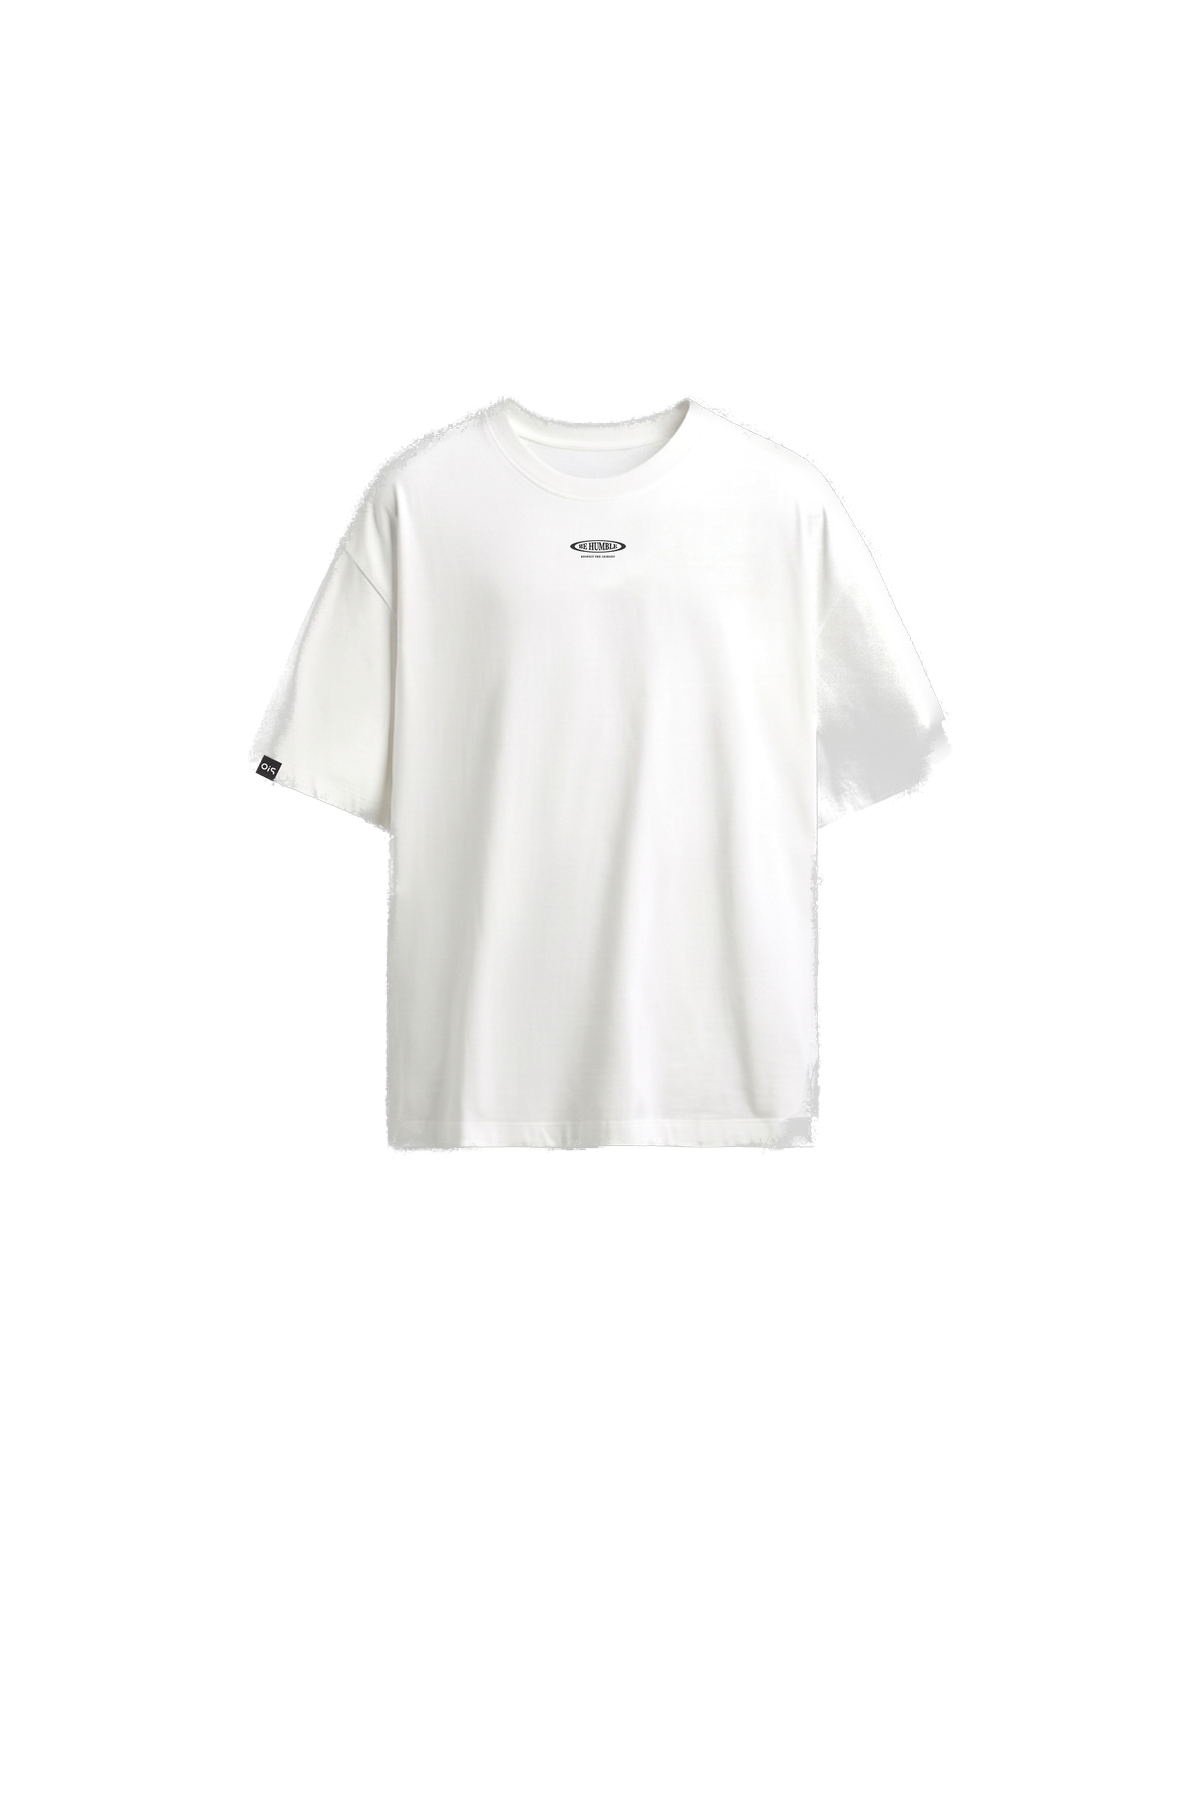
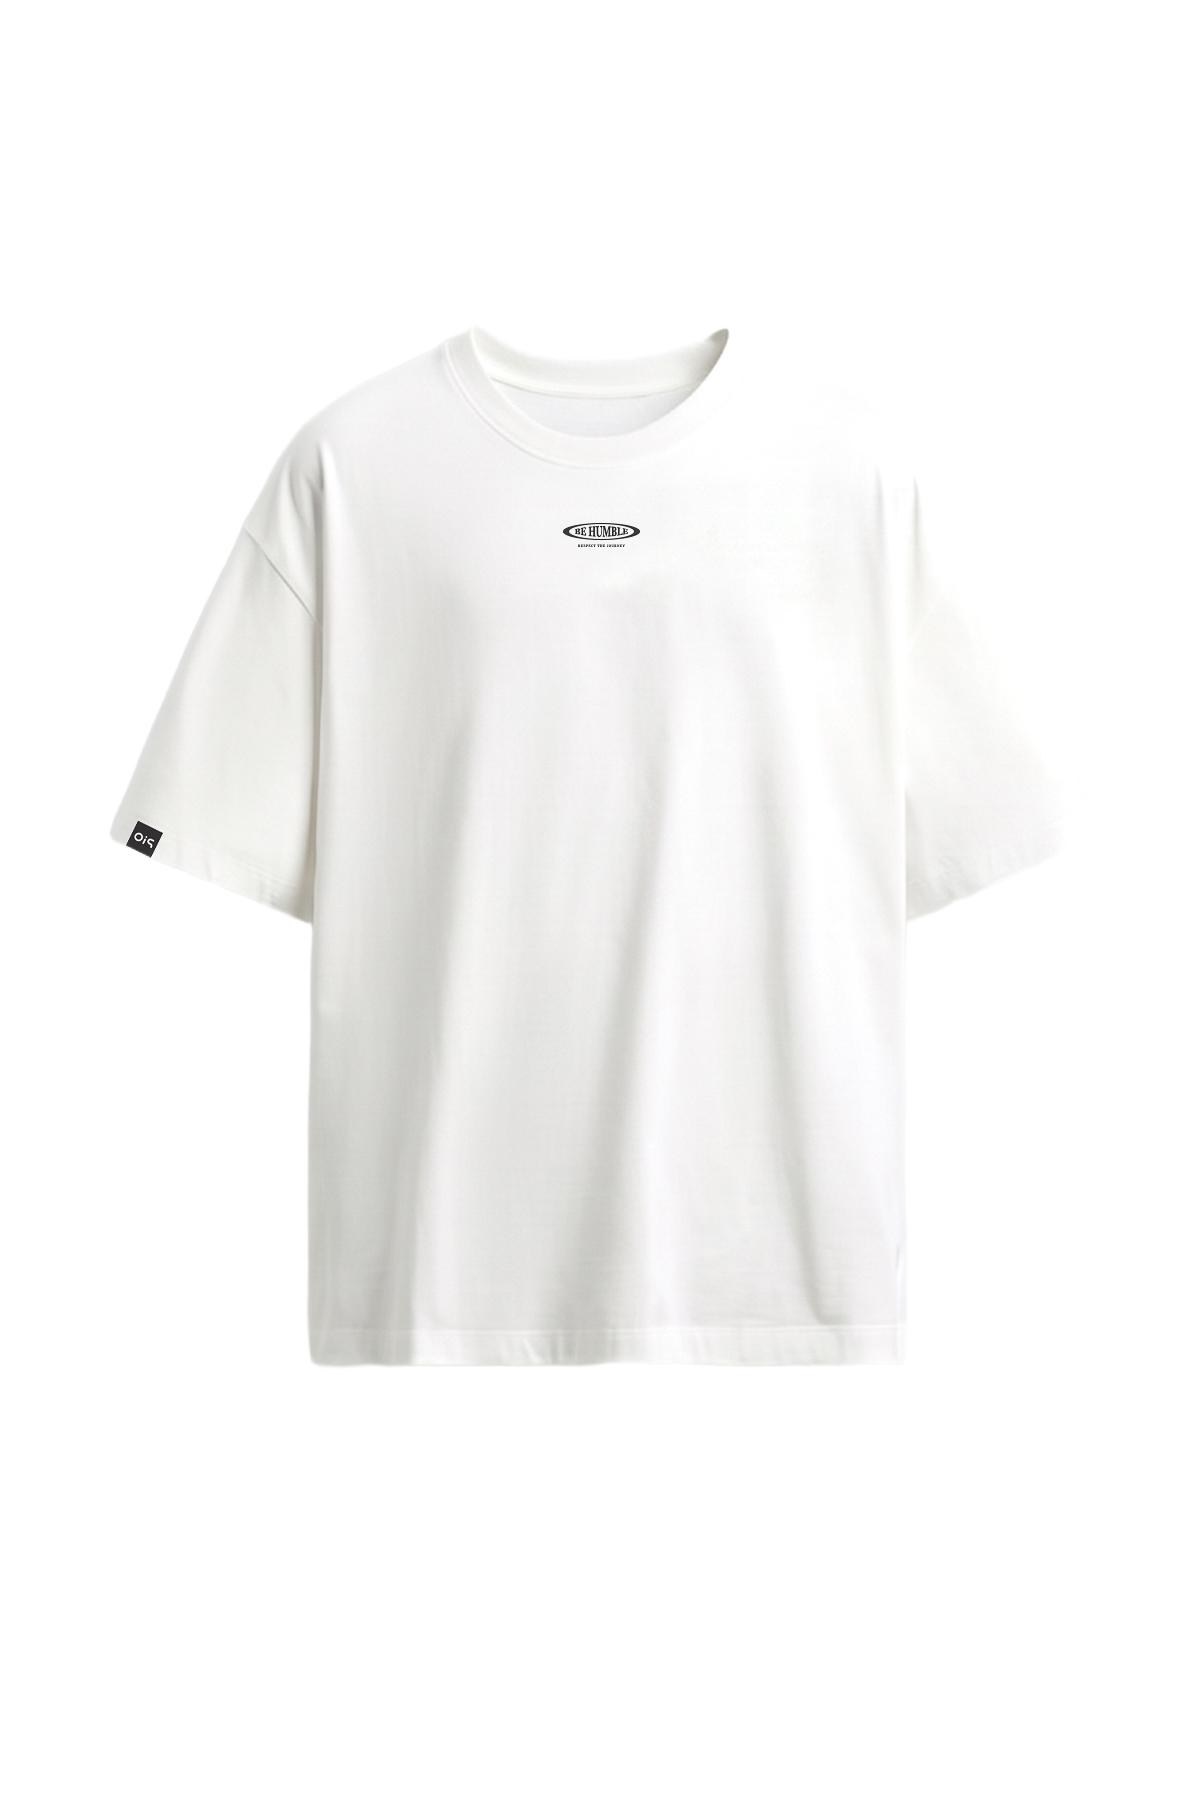
Use uploaded tee cutouts as-is, crop grid tiles to remove empty space

diff --git a/index.html b/index.html
@@ -190,7 +190,9 @@
   .tile { display: block; text-align: center; position: relative; }
   .tile-img {
     width: 100%;
-    height: auto;
+    aspect-ratio: 1 / 1.08;
+    object-fit: cover;
+    object-position: center 42%;
     display: block;
     transition: opacity 150ms linear;
   }
